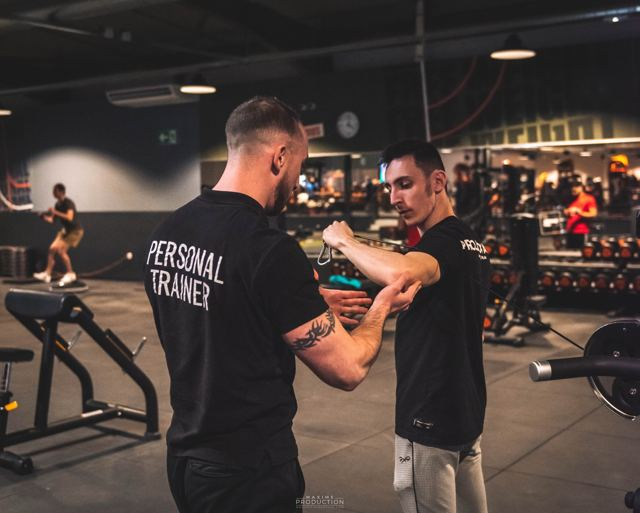
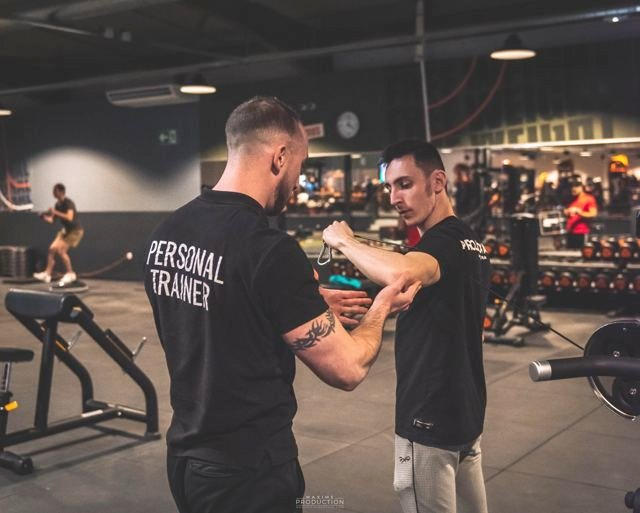
Palette : avis en bande claire, teinte plus visible, rouge réservé au bilan, thème sombre plus lisible, photos éclaircies

diff --git a/site.css b/site.css
@@ -5,12 +5,12 @@
 :root{
   color-scheme: light dark;
   interpolate-size: allow-keywords;
-  --blue: #1147B4;
-  --red: #EA183D;
-  --star: #F2A900;
+  --blue: light-dark(#1147B4, #103C99);
+  --red: #E0143A;
+  --star: light-dark(#A87200, #F2A900);
   --navy: #0B1226;
-  --paper: light-dark(#FFFFFF, #0A1024);
-  --tint: light-dark(#EEF2FC, #141D3A);
+  --paper: light-dark(#FBFAF7, #0A1024);
+  --tint: light-dark(#DFE6F5, #1A2647);
   --ink: light-dark(#0F1A33, #EEF1F8);
   --muted: light-dark(#465068, #B4BDD3);
   --accent: light-dark(#1147B4, #8FB0FF);
@@ -29,13 +29,13 @@ html{ -webkit-text-size-adjust: 100%; scroll-padding-top: 4.5rem; }
 body{ margin: 0; background: var(--paper); color: var(--ink); font-family: var(--body); font-size: 1.125rem; line-height: 1.6; }
 img{ display: block; max-width: 100%; height: auto; }
 a{ color: inherit; text-underline-offset: 0.2em; text-decoration-thickness: 2px; }
-:focus-visible{ outline: 3px solid var(--red); outline-offset: 3px; }
+:focus-visible{ outline: 3px solid var(--accent); outline-offset: 3px; }
 p{ margin: 0 0 1rem; text-wrap: pretty; }
 
 /* Bandes : chacune fixe ses propres couleurs, les composants à l'intérieur s'y adaptent */
 .band{ padding-block: var(--band); background: var(--paper); color: var(--ink); --panel: var(--tint); }
 .band--tint{ background: var(--tint); --panel: var(--paper); }
-.band--dark{ background: var(--navy); --ink: #FFFFFF; --muted: #B4BDD3; --accent: #8FB0FF; --panel: #141D3A; }
+.band--dark{ background: var(--navy); --ink: #FFFFFF; --muted: #B4BDD3; --accent: #8FB0FF; --star: #F2A900; --panel: #141D3A; }
 .band--blue{ background: var(--blue); --ink: #FFFFFF; --muted: #DCE6FF; --accent: #FFFFFF; }
 .wrap{ max-width: 76rem; margin-inline: auto; padding-inline: 1.25rem; }
 .intro{ max-width: 40rem; margin-bottom: 3rem; }
@@ -50,7 +50,7 @@ h3{ font-size: 1.5rem; font-stretch: 80%; font-weight: 700; line-height: 1.15; m
 .sprite{ position: absolute; width: 0; height: 0; }
 .ico{ width: 1.5rem; height: 1.5rem; flex: none; fill: none; stroke: var(--accent); stroke-width: 2; stroke-linecap: round; stroke-linejoin: round; }
 
-/* Bouton de réservation : le seul rouge de la page */
+/* Rouge : réservé au bouton qui mène au bilan offert. Les autres actions sont en .plain, ou en .quiet sur fond bleu. */
 .btn{
   display: inline-flex; align-items: center; justify-content: center; min-height: 3.25rem; text-align: center;
   background: var(--red); color: #fff; text-decoration: none; cursor: pointer; border: 0; border-radius: var(--r);
@@ -63,6 +63,7 @@ a.btn::after{ content: "→"; display: inline-block; margin-left: 0.6rem; transi
 a.btn:hover::after{ transform: translateX(0.3rem); }
 .btn.small{ min-height: 2.6rem; font-size: 1rem; padding: 0.4rem 1.2rem; }
 .btn.quiet{ background: #fff; color: #0F1A33; }
+.btn.plain{ background: var(--ink); color: var(--paper); }
 
 /* Menu */
 .draft{ margin: 0; padding: 0.5rem 1.25rem; text-align: center; font-size: 0.9375rem; background: var(--tint); color: var(--muted); }
@@ -74,7 +75,7 @@ a.btn:hover::after{ transform: translateX(0.3rem); }
 }
 .nav-bar{ display: flex; align-items: center; gap: 0.25rem; max-width: 76rem; margin: 0 auto; padding: 0.5rem 1.25rem; }
 .brand{ font-family: var(--display); font-stretch: 72%; font-weight: 800; font-size: 1.35rem; text-decoration: none; margin-right: auto; white-space: nowrap; }
-.brand span{ color: var(--red); }
+.brand span{ color: var(--accent); }
 .nav-links{ display: flex; gap: 0.15rem; }
 .nav-links a{ text-decoration: none; font-size: 1.0625rem; font-weight: 500; padding: 0.5rem 0.95rem; border-radius: var(--r); }
 .nav-links a:hover, .nav-links a[aria-current="true"]{ background: var(--tint); color: var(--accent); }
@@ -119,7 +120,6 @@ a.btn:hover::after{ transform: translateX(0.3rem); }
 .stats span{ display: block; margin-top: 0.35rem; color: var(--muted); font-size: 1rem; }
 
 /* Avis : une phrase en très grand, trois courtes, chacune liée à sa page Google */
-.reviews{ padding-top: clamp(1rem, 3vw, 2.5rem); }
 .rating{ font-weight: 600; font-size: 1.3125rem; margin: 0; }
 .voice{ margin: 0; }
 .voice blockquote{ margin: 0 0 0.6rem; font-size: 1.3125rem; line-height: 1.4; font-weight: 500; }
@@ -204,7 +204,7 @@ textarea.field{ min-height: 5.5rem; resize: vertical; }
 .ebook form{ display: grid; gap: 0.9rem; }
 .ebook .consent{ display: flex; gap: 0.6rem; align-items: baseline; font-weight: 400; font-size: 1rem; color: var(--muted); }
 .ebook .consent input{ flex: none; width: 1.1rem; height: 1.1rem; accent-color: var(--blue); }
-.ebook .field{ background: var(--paper); color: var(--ink); }
+.ebook .field{ background: var(--tint); color: var(--ink); }
 .ebook .btn{ justify-self: start; }
 
 /* Pied de page */

diff --git a/index.html b/index.html
@@ -97,7 +97,7 @@
     </div>
   </section>
 
-  <section class="band band--dark reviews" id="avis">
+  <section class="band band--tint reviews" id="avis">
     <div class="wrap">
       <p class="rating"><span class="stars" aria-hidden="true">★★★★★</span> 56 avis Google, tous à cinq étoiles</p>
       <figure class="voice featured">
@@ -122,7 +122,7 @@
     </div>
   </section>
 
-  <section class="band band--tint" id="tarifs">
+  <section class="band" id="tarifs">
     <div class="wrap">
       <div class="intro">
         <h2>Les tarifs</h2>
@@ -133,7 +133,7 @@
           <h3>Le bilan est offert</h3>
           <p>On discute de ton objectif, puis tu fais une première séance. Tu décides après, sans engagement.</p>
         </div>
-        <a class="btn" href="#reserver">Réserver mon bilan offert</a>
+        <a class="btn quiet" href="#reserver">Réserver mon bilan offert</a>
       </div>
       <div class="offers">
         <div class="offer">
@@ -181,7 +181,7 @@
               <li><svg class="ico" aria-hidden="true"><use href="#i-card"/></svg><span>Paiement par PayPal ou carte bancaire.</span></li>
               <li><svg class="ico" aria-hidden="true"><use href="#i-swap"/></svg><span>Débutant complet ? Choisis plutôt quelques séances en personne.</span></li>
             </ul>
-            <a class="btn" href="https://www.paypal.com/ncp/payment/DQ3FPC8XZ4YDE" rel="noopener">Payer mes 4 premières semaines</a>
+            <a class="btn plain" href="https://www.paypal.com/ncp/payment/DQ3FPC8XZ4YDE" rel="noopener">Payer mes 4 premières semaines</a>
             <p class="fine">Je te contacte sous 24 heures. En payant, tu acceptes les <a href="cgv/">conditions générales de vente</a>.</p>
           </details>
         </div>
@@ -190,7 +190,7 @@
     </div>
   </section>
 
-  <section class="band" id="demarrer">
+  <section class="band band--tint" id="demarrer">
     <div class="wrap">
       <div class="intro">
         <h2>Pas besoin d'être en forme pour commencer</h2>
@@ -234,7 +234,7 @@
     </div>
   </section>
 
-  <section class="band band--tint" id="questions">
+  <section class="band" id="questions">
     <div class="wrap faq">
       <div>
         <h2>Questions fréquentes</h2>
@@ -277,7 +277,7 @@
     </div>
   </section>
 
-  <section class="band">
+  <section class="band band--tint">
     <div class="wrap">
       <div class="intro">
         <h2>Des outils gratuits</h2>
@@ -295,7 +295,7 @@
         <form id="ebook">
           <label>Ton e-mail <input class="field" type="email" name="EMAIL" autocomplete="email" required></label>
           <label class="consent"><input type="checkbox" name="OPT_IN" required> <span>J'accepte de recevoir les recettes et quelques conseils par e-mail. Désinscription à tout moment.</span></label>
-          <button class="btn" type="submit">Recevoir les recettes</button>
+          <button class="btn plain" type="submit">Recevoir les recettes</button>
         </form>
       </div>
     </div>
